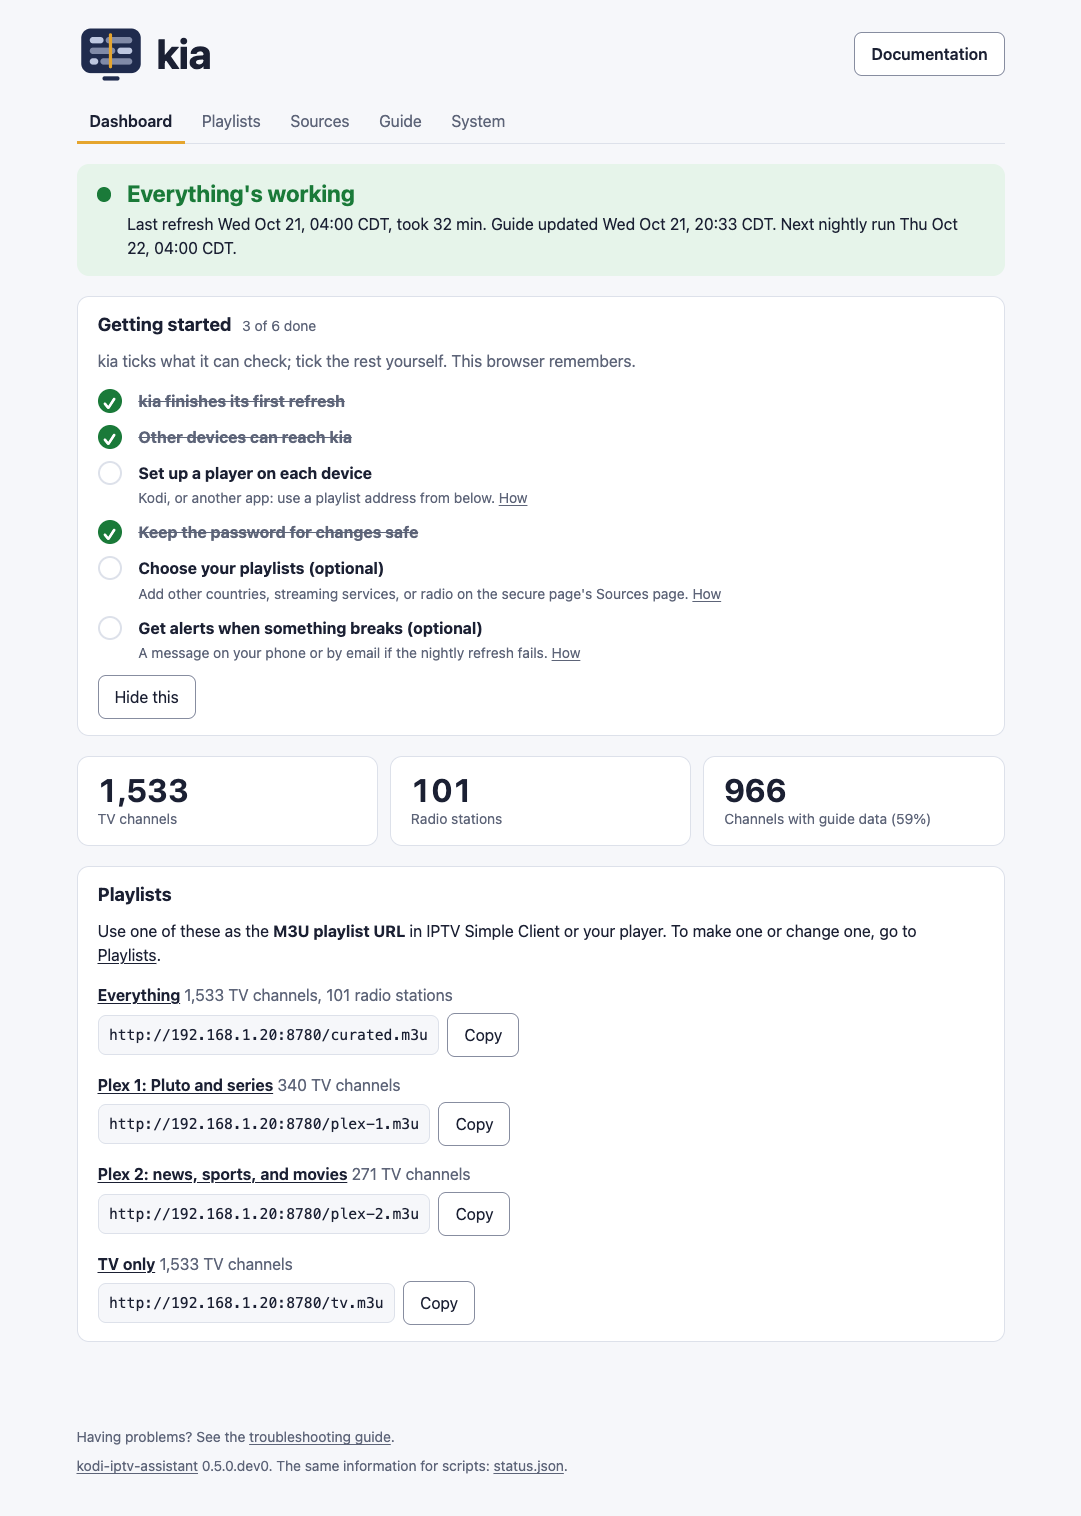
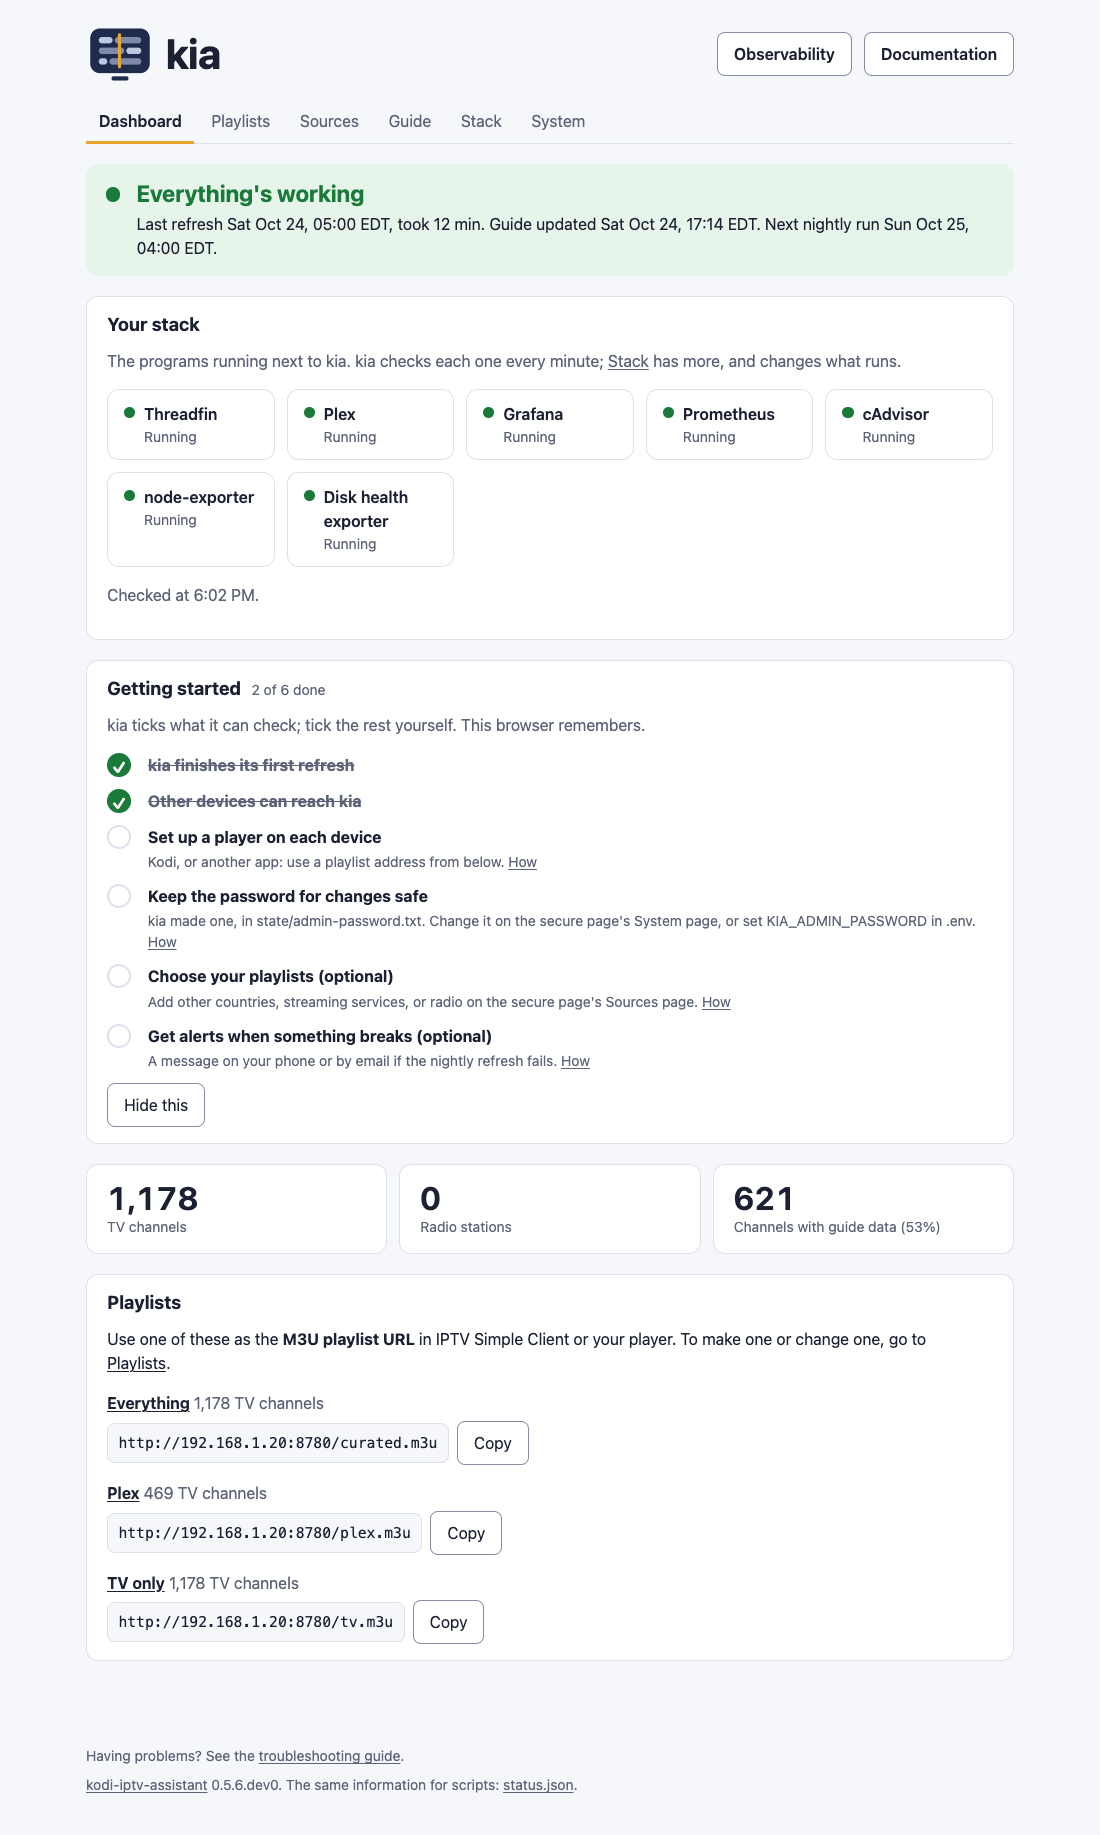
A new Dashboard screenshot, and a tidier answer on the Stack page

diff --git a/src/kia/stackeditor.py b/src/kia/stackeditor.py
@@ -201,13 +201,15 @@ SCRIPT = r"""
   }
 
   function answered(res, action, parts) {
-    card.show(res.output);
     var ok = res.exit === "0";
+    // After an apply, what runs has changed: draw the page again, then show the answer.
+    if (action === "apply") draw();
+    card.show(res.output);
     if (res.state === "refused") card.say("The kia-stack service refused it: see below.", true);
     else if (action === "check") card.say(ok ? "No problems. Apply makes the change." : "Check found problems: see below. Apply stays off until they're fixed.", !ok);
-    else card.say(ok ? "Done. What runs now is below." : "The change didn't finish: see below.", !ok);
+    else card.say(ok ? "Done. What runs now is above." : "The change didn't finish: see below.", !ok);
+    // Apply needs a new Check after this: of this choice, if this was one that passed.
     checked = action === "check" ? { parts: parts, code: res.exit, output: res.output } : null;
-    if (action === "apply") { draw(); card.show(res.output); card.say(ok ? "Done. What runs now is above." : "The change didn't finish: see below.", !ok); return; }
     finish();
   }
   function finish() { card.buttons[0].disabled = !data.service; card.changed(); }

diff --git a/docs/how-it-works.md b/docs/how-it-works.md
@@ -98,7 +98,7 @@ Every page has the same menu at the top, a **Documentation** button that opens t
 
 <img src="../images/kia-timeline-phone.png" width="300" alt="A playlist's Timeline on a phone: three hours from 11 PM, channel names down the side, a red line at the current time, and a tapped show's title and times under its channel">
 
-![kia's Dashboard: the menu, a banner saying everything's working, the Getting started checklist, the channel counts, and four playlists, each with its address and a Copy button](../images/kia-status-screenshot.png)
+![kia's Dashboard: the menu, a banner saying everything's working, the Your stack tiles for Threadfin, Plex, Grafana, and the exporters, the Getting started checklist, the channel counts, and three playlists, each with its address and a Copy button](../images/kia-status-screenshot.png)
 
 The banner at the top shows the state of the last refresh:
 
